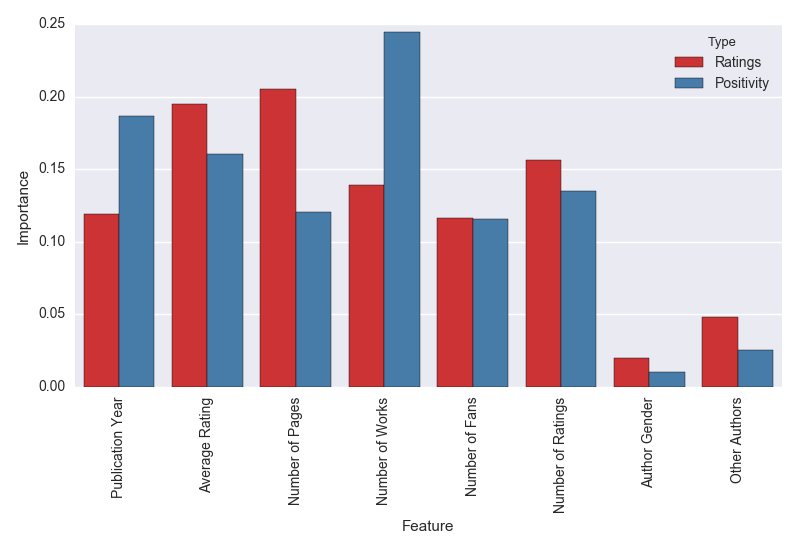
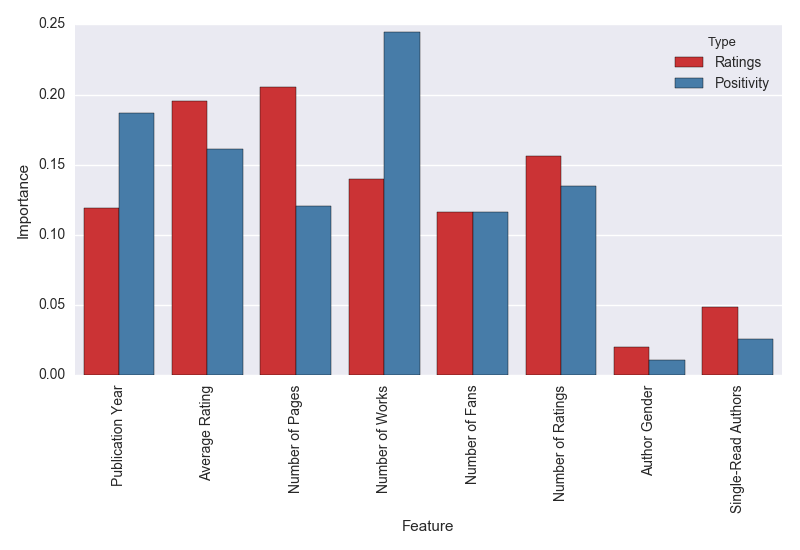
column name change

diff --git a/tree_model.py b/tree_model.py
@@ -100,7 +100,7 @@ joblib.dump(rf, 'data/model/positivity_model.pkl')
 
 # Feature importance
 nice_columns = ['Publication Year', 'Average Rating', 'Number of Pages', 'Number of Works', 'Number of Fans',
-                'Number of Ratings', 'Author Gender', 'Other Authors']
+                'Number of Ratings', 'Author Gender', 'Single-Read Authors']
 importance = pd.DataFrame(rf.feature_importances_, index=nice_columns)
 importance = importance.reset_index()
 importance.columns = ['Feature', 'Importance']
